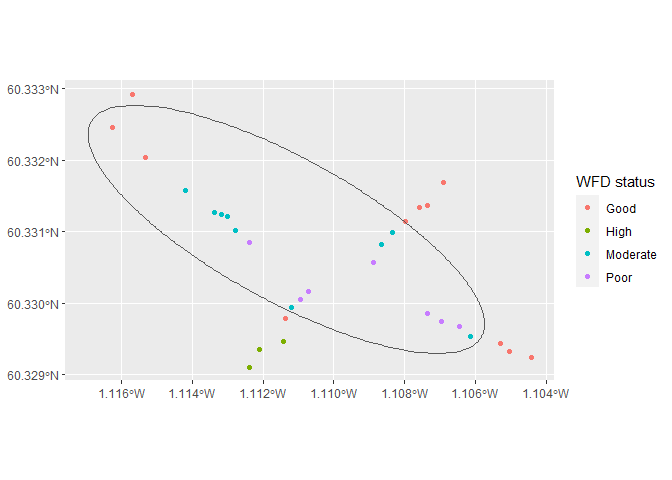
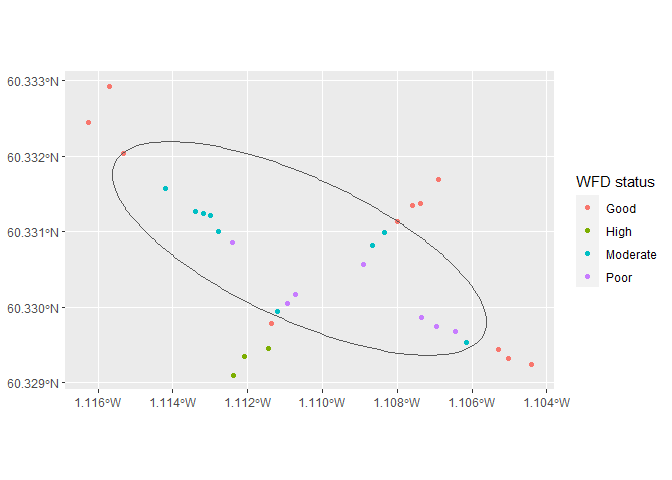
docs: fix ellipse image (remove manual override)

diff --git a/README.md b/README.md
@@ -78,6 +78,11 @@ library(sf)
 library(ggplot2)
 # convert survey data to spatial
 data <- st_as_sf(data$survey_data, coords = c("Longitude", "Latitude"), crs = 4326)
+# Calculate area with overrides
+data <- consecutive_stations(demo_iqi)
+probs <- probability_non_linear(data$survey_data)
+breachs <- breach(probs)
+areas <- area(breachs)
 ellipse <- areas$ellipse
 g <- ggplot() + geom_sf(data = data, aes(color = IQI)) + 
                 geom_sf(data = ellipse, alpha = 0)
